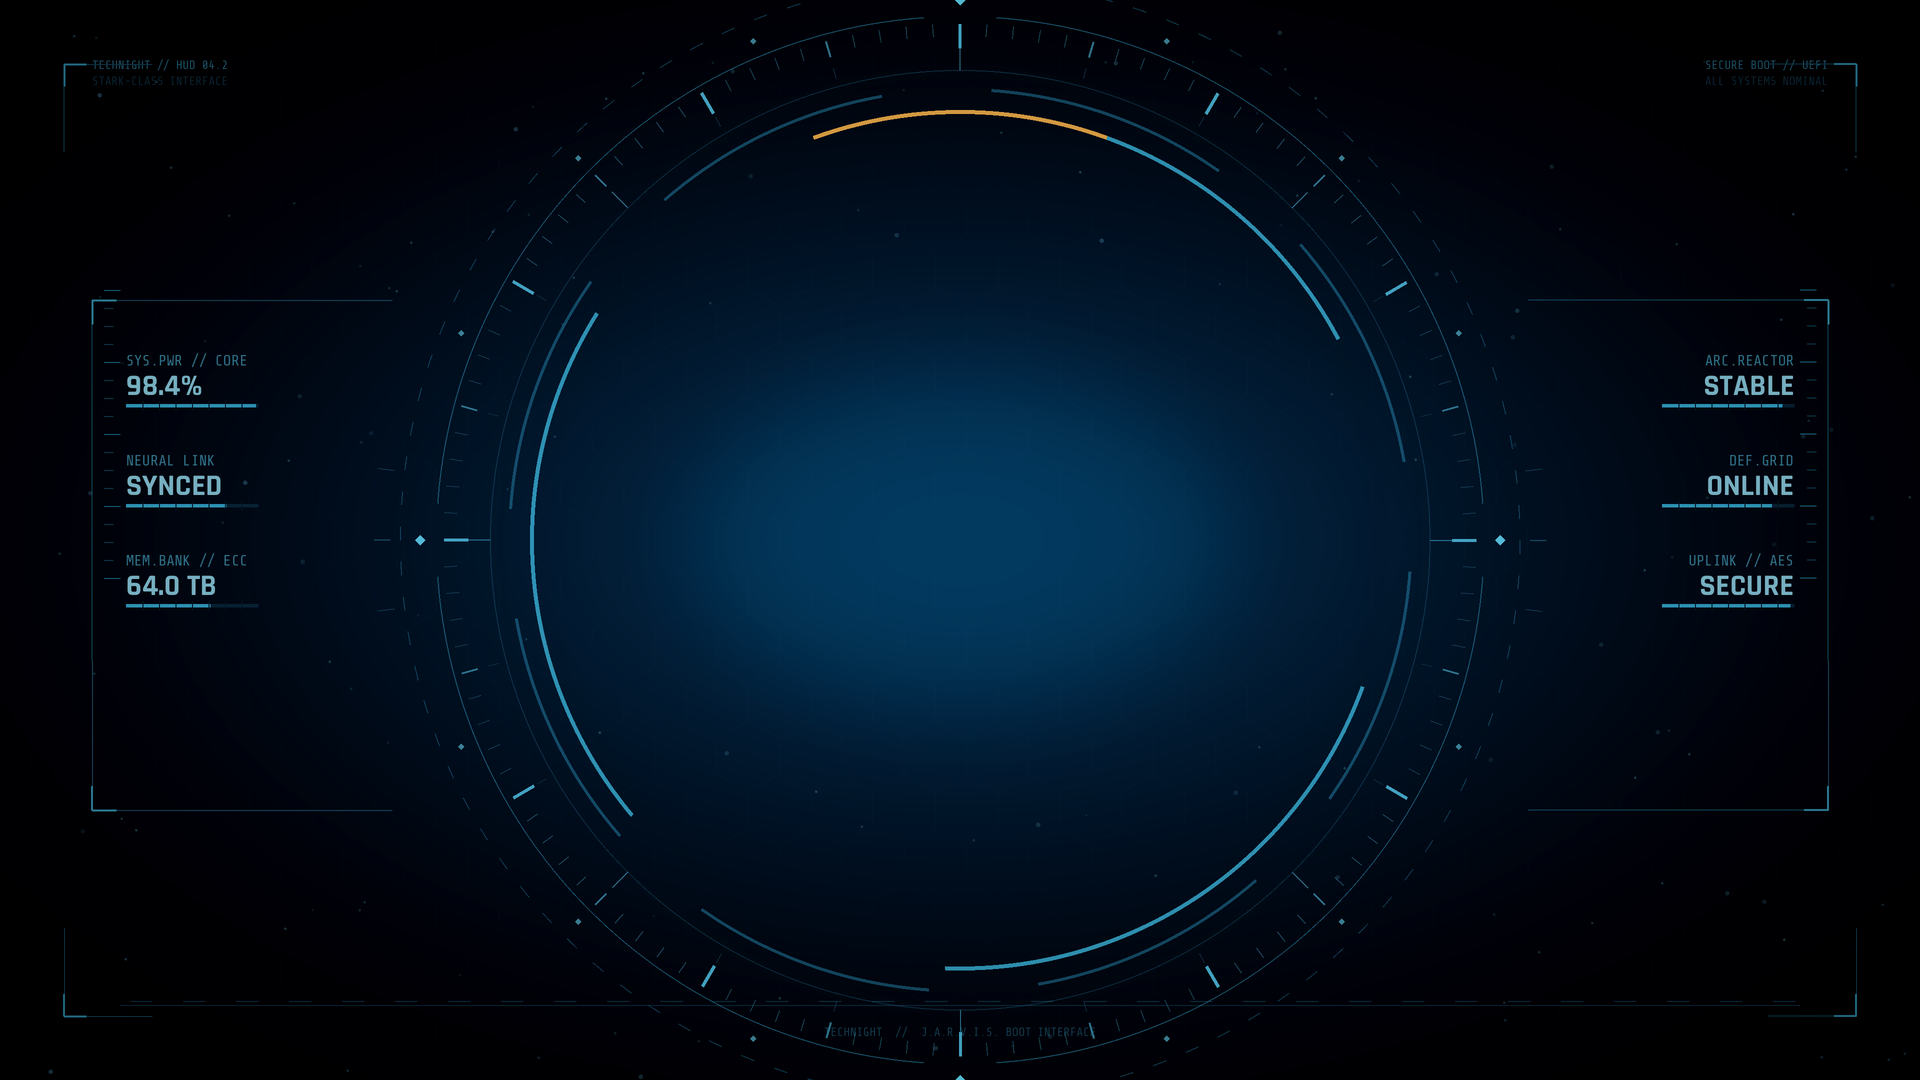
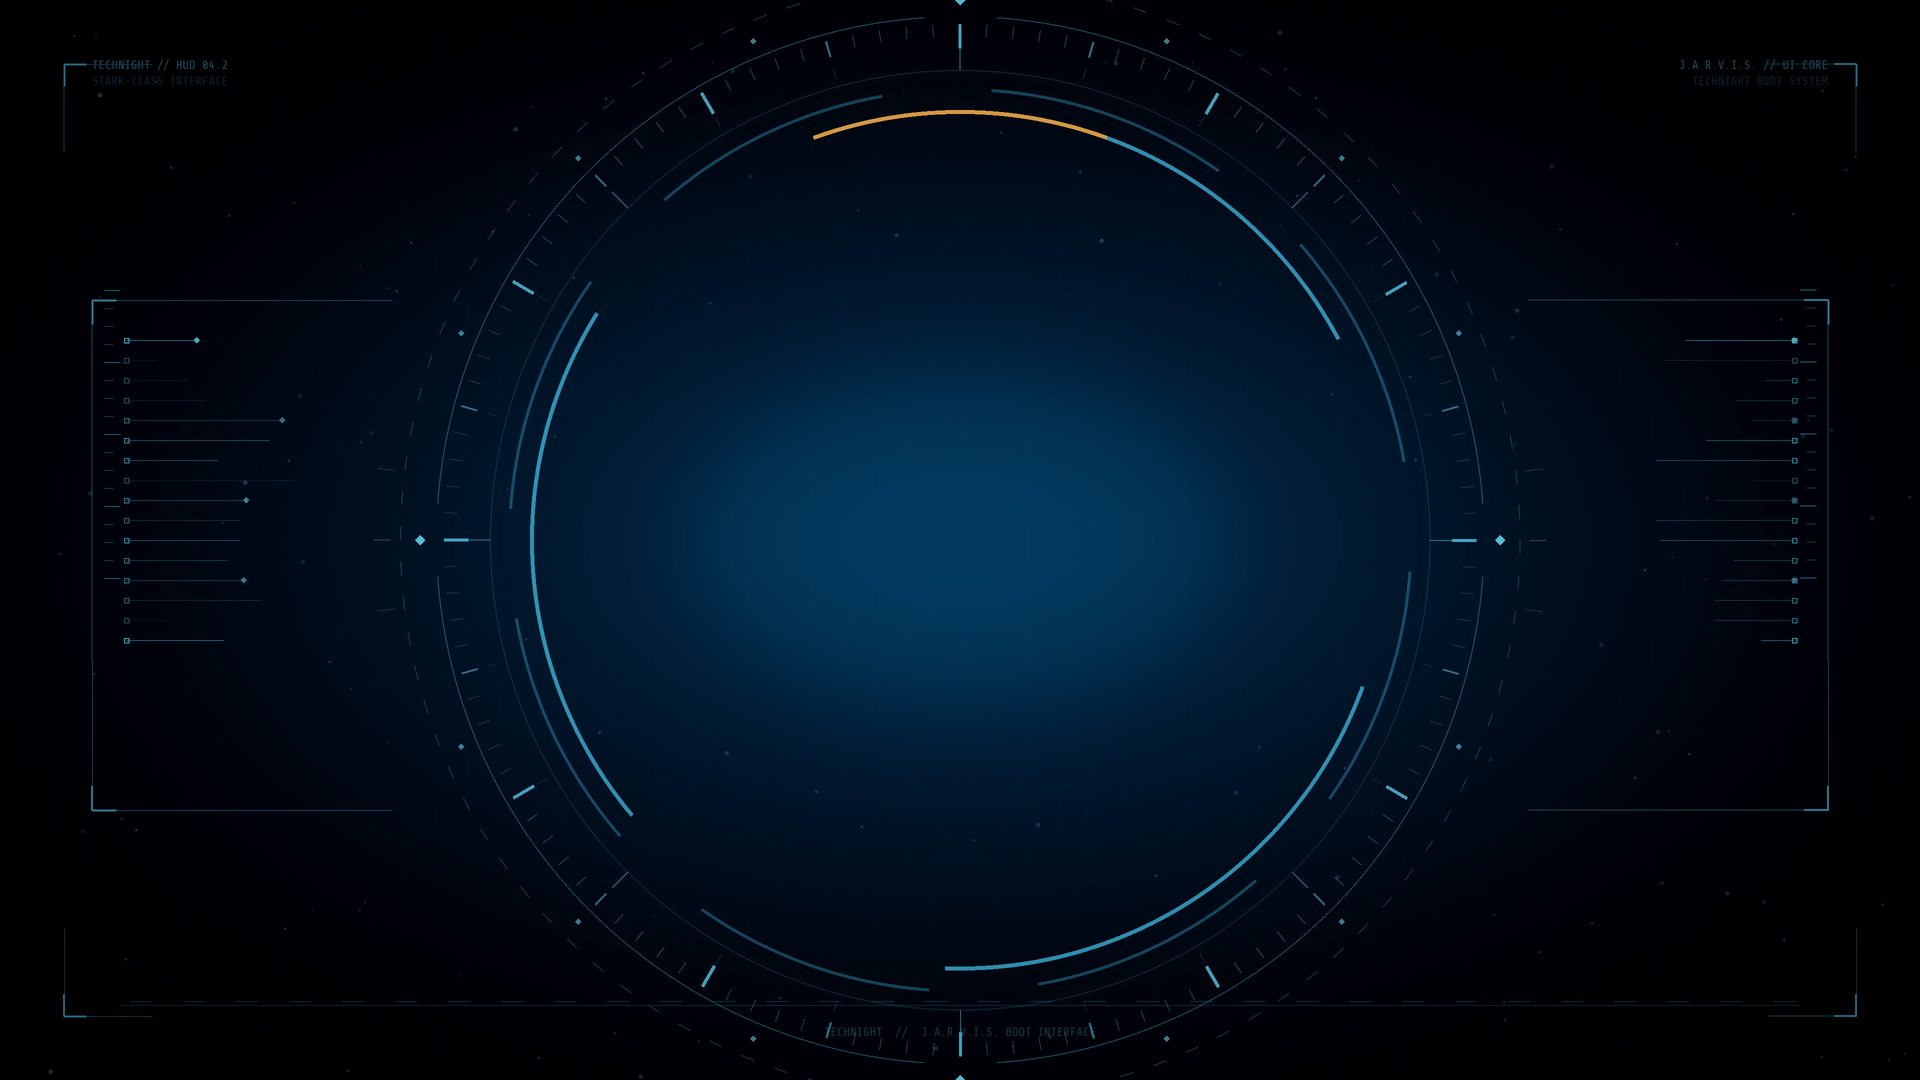
feat(background): replace baked-in fake telemetry with abstract HUD traces

Changed region(s): [[0.875, 0.3056, 0.9375, 0.5806], [0.0625, 0.3056, 0.125, 0.5806]]

diff --git a/tools/generate_assets.py b/tools/generate_assets.py
@@ -266,8 +266,6 @@ def build_background() -> Image.Image:
     # ------------------------------------------------------------------
     side = Image.new("RGBA", (w, h), (0, 0, 0, 0))
     sd = ImageDraw.Draw(side)
-    f_label = ImageFont.truetype(str(FONT_MONO), 15 * S)
-    f_value = ImageFont.truetype(str(FONT_TITLE), 30 * S)
     f_tiny = ImageFont.truetype(str(FONT_MONO), 12 * S)
 
     def bracket(x, y, w_, h_, flip_x=False, flip_y=False):
@@ -278,28 +276,33 @@ def build_background() -> Image.Image:
         sd.line((x, y, x + 24 * S * sx, y), fill=(78, 201, 235, 150), width=2 * S)
         sd.line((x, y, x, y + 24 * S * sy), fill=(78, 201, 235, 150), width=2 * S)
 
-    def data_block(x, y, label, value, pct, right=False):
-        align = "ra" if right else "la"
-        text(sd, (x, y), label, f_label, (78, 173, 205, 160), anchor=align)
-        text(sd, (x, y + 15 * S), value, f_value, (159, 231, 251, 190), anchor=align)
-        by = y + 52 * S
-        bw = 132 * S
-        bx = x - bw if right else x
-        sd.rectangle((bx, by, bx + bw, by + 3 * S), fill=(20, 68, 94, 110))
-        sd.rectangle((bx, by, bx + bw * pct, by + 3 * S), fill=(62, 189, 230, 190))
-        # tick separators
-        for k in range(1, 8):
-            tx = bx + bw * k / 8
-            sd.line((tx, by - 3 * S, tx, by + 6 * S), fill=(8, 28, 44, 180), width=1 * S)
+    rng = random.Random(2077)
 
-    data_block(126 * S, 352 * S, "SYS.PWR // CORE", "98.4%", 0.984)
-    data_block(126 * S, 452 * S, "NEURAL LINK", "SYNCED", 0.76)
-    data_block(126 * S, 552 * S, "MEM.BANK // ECC", "64.0 TB", 0.64)
-    data_block(1794 * S, 352 * S, "ARC.REACTOR", "STABLE", 0.91, right=True)
-    data_block(1794 * S, 452 * S, "DEF.GRID", "ONLINE", 0.83, right=True)
-    data_block(1794 * S, 552 * S, "UPLINK // AES", "SECURE", 0.97, right=True)
+    def data_stream(x, y, width, rows=16, right=False):
+        """Abstract telemetry traces.
 
-    # Small vertical scales next to the data blocks.
+        No numbers or fabricated status values are baked into the artwork:
+        everything that looks like a reading is rendered live by GRUB or by
+        the install-time information labels.
+        """
+        for i in range(rows):
+            yy = y + i * 20
+            frac = rng.uniform(0.12, 0.98)
+            length = width * frac
+            x0 = x - length if right else x
+            alpha = rng.randint(30, 100) if i % 5 else rng.randint(90, 150)
+            sd.line((x0 * S, yy * S, (x0 + length) * S, yy * S),
+                    fill=(50, 157, 194, alpha), width=1 * S)
+            sd.rectangle(((x - 2) * S, (yy - 2) * S, (x + 3) * S, (yy + 3) * S),
+                         outline=(78, 201, 235, min(210, alpha + 60)), width=1 * S)
+            if i % 4 == 0:
+                diamond(sd, (x0 + length) * S, yy * S, 3 * S,
+                        (104, 221, 250, min(200, alpha + 50)))
+
+    data_stream(126, 340, 170)
+    data_stream(1794, 340, 170, right=True)
+
+    # Small vertical scales next to the telemetry traces.
     for x in (104, 1816):
         for i in range(17):
             yy = 290 + i * 18
@@ -313,11 +316,11 @@ def build_background() -> Image.Image:
     bracket(92 * S, 810 * S, 300 * S, 150 * S, flip_y=True)
     bracket(1828 * S, 810 * S, 300 * S, 150 * S, flip_x=True, flip_y=True)
 
-    # Top status text.
+    # Top branding (no runtime status claims).
     text(sd, (92 * S, 58 * S), "TECHNIGHT // HUD 04.2", f_tiny, (64, 157, 190, 125))
-    text(sd, (1828 * S, 58 * S), "SECURE BOOT // UEFI", f_tiny, (64, 157, 190, 125), anchor="ra")
+    text(sd, (1828 * S, 58 * S), "J.A.R.V.I.S. // UI CORE", f_tiny, (64, 157, 190, 125), anchor="ra")
     text(sd, (92 * S, 74 * S), "STARK-CLASS INTERFACE", f_tiny, (42, 104, 130, 85))
-    text(sd, (1828 * S, 74 * S), "ALL SYSTEMS NOMINAL", f_tiny, (42, 104, 130, 85), anchor="ra")
+    text(sd, (1828 * S, 74 * S), "TECHNIGHT BOOT SYSTEM", f_tiny, (42, 104, 130, 85), anchor="ra")
 
     # Bottom strip.
     sd.line((120 * S, 1005 * S, 1800 * S, 1005 * S), fill=(29, 98, 126, 90), width=1 * S)
@@ -539,29 +542,31 @@ def icon_canvas(im: Image.Image, size=96, pad=7, glow=True) -> Image.Image:
 
 
 def make_logo_icons(tmp: Path):
-    mapping = {
-        "ubuntu.svg": "ubuntu.png",
-        "pardus.svg": "pardus.png",
-        "windows.svg": "windows.png",
-        "debian.svg": "debian.png",
-        "fedora.svg": "fedora.png",
-        "archlinux.svg": "archlinux.png",
-        "linuxmint.svg": "linuxmint.png",
-        "manjaro.svg": "manjaro.png",
-        "opensuse.svg": "opensuse.png",
-        "kalilinux.svg": "kali.png",
-        "popos.svg": "pop.png",
-        "zorin.svg": "zorin.png",
-        "linux.svg": "gnu-linux.png",
-        "linux.svg": "linux.png",
-        "freebsd.svg": "freebsd.png",
-        "android.svg": "android.png",
-        "apple.svg": "apple.png",
-        "apple.svg": "macos.png",
-        "apple.svg": "osx.png",
-        "apple.svg": "darwin.png",
-        "linux.svg": "gnu.png",
-    }
+    # Keep this as a list of pairs: several GRUB icon names intentionally
+    # share one source SVG (linux, apple), which a dict would silently drop.
+    mapping = [
+        ("ubuntu.svg", "ubuntu.png"),
+        ("pardus.svg", "pardus.png"),
+        ("windows.svg", "windows.png"),
+        ("debian.svg", "debian.png"),
+        ("fedora.svg", "fedora.png"),
+        ("archlinux.svg", "archlinux.png"),
+        ("linuxmint.svg", "linuxmint.png"),
+        ("manjaro.svg", "manjaro.png"),
+        ("opensuse.svg", "opensuse.png"),
+        ("kalilinux.svg", "kali.png"),
+        ("popos.svg", "pop.png"),
+        ("zorin.svg", "zorin.png"),
+        ("linux.svg", "gnu-linux.png"),
+        ("linux.svg", "linux.png"),
+        ("freebsd.svg", "freebsd.png"),
+        ("android.svg", "android.png"),
+        ("apple.svg", "apple.png"),
+        ("apple.svg", "macos.png"),
+        ("apple.svg", "osx.png"),
+        ("apple.svg", "darwin.png"),
+        ("linux.svg", "gnu.png"),
+    ]
     # Some Simple Icons marks use near-black brand colours that disappear on
     # the dark HUD background. Recolour those while keeping the exact shape.
     recolor = {
@@ -571,7 +576,7 @@ def make_logo_icons(tmp: Path):
         "darwin.png": (234, 249, 255),
         "kali.png": (143, 203, 232),    # brighter Kali blue-grey
     }
-    for svg_name, png_name in mapping.items():
+    for svg_name, png_name in mapping:
         src = LOGOS / svg_name
         rendered = tmp / (svg_name.replace(".svg", ".png"))
         if not rendered.exists():
@@ -710,11 +715,12 @@ def main():
         make_logo_icons(Path(td))
     make_simple_icons()
 
-    # Remove the legacy hand-drawn logo placeholders.
-    for legacy in ("pardus_logo.png", "ubuntu_logo.png", "menu_c.png"):
+    # Drop the legacy hand-drawn logo placeholders. The real brand marks are
+    # rendered into icons/ from the SVG sources instead.
+    for legacy in ("pardus_logo.png", "ubuntu_logo.png"):
         p = THEME / legacy
-        if p.exists() and legacy == "menu_c.png":
-            pass  # replaced by the full menu_*.png set below
+        if p.exists():
+            p.unlink()
 
     print("done")
 
